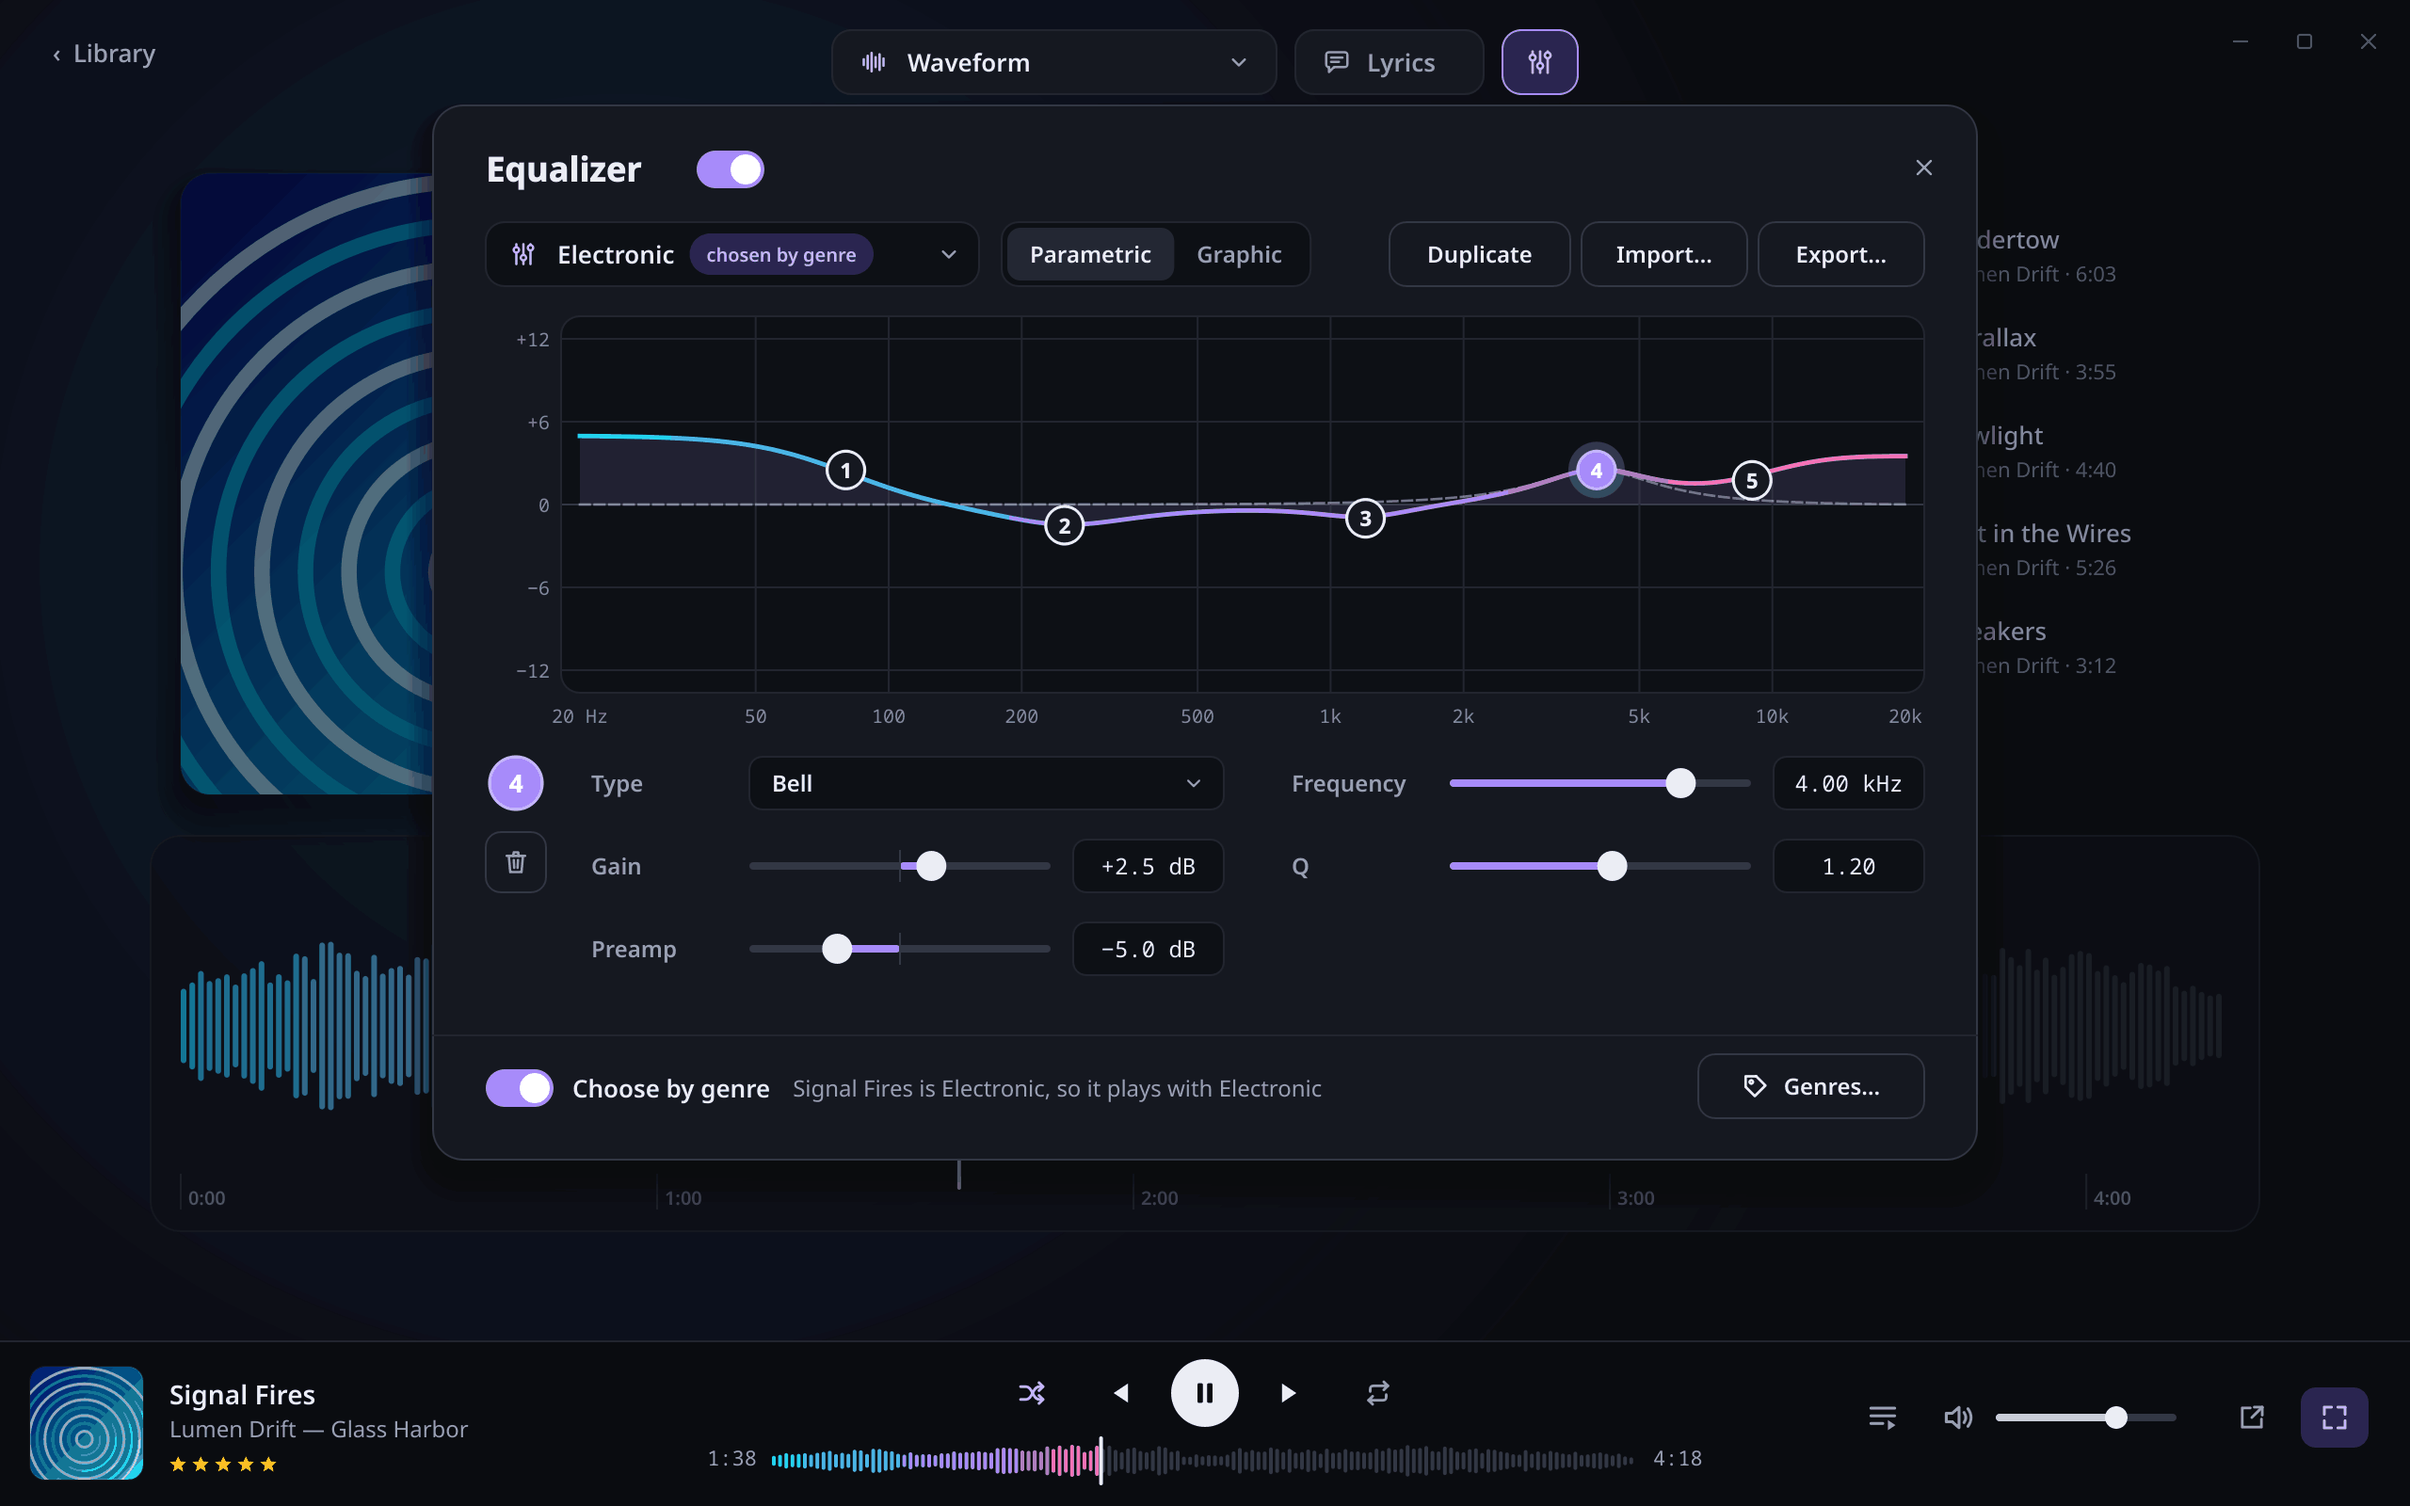
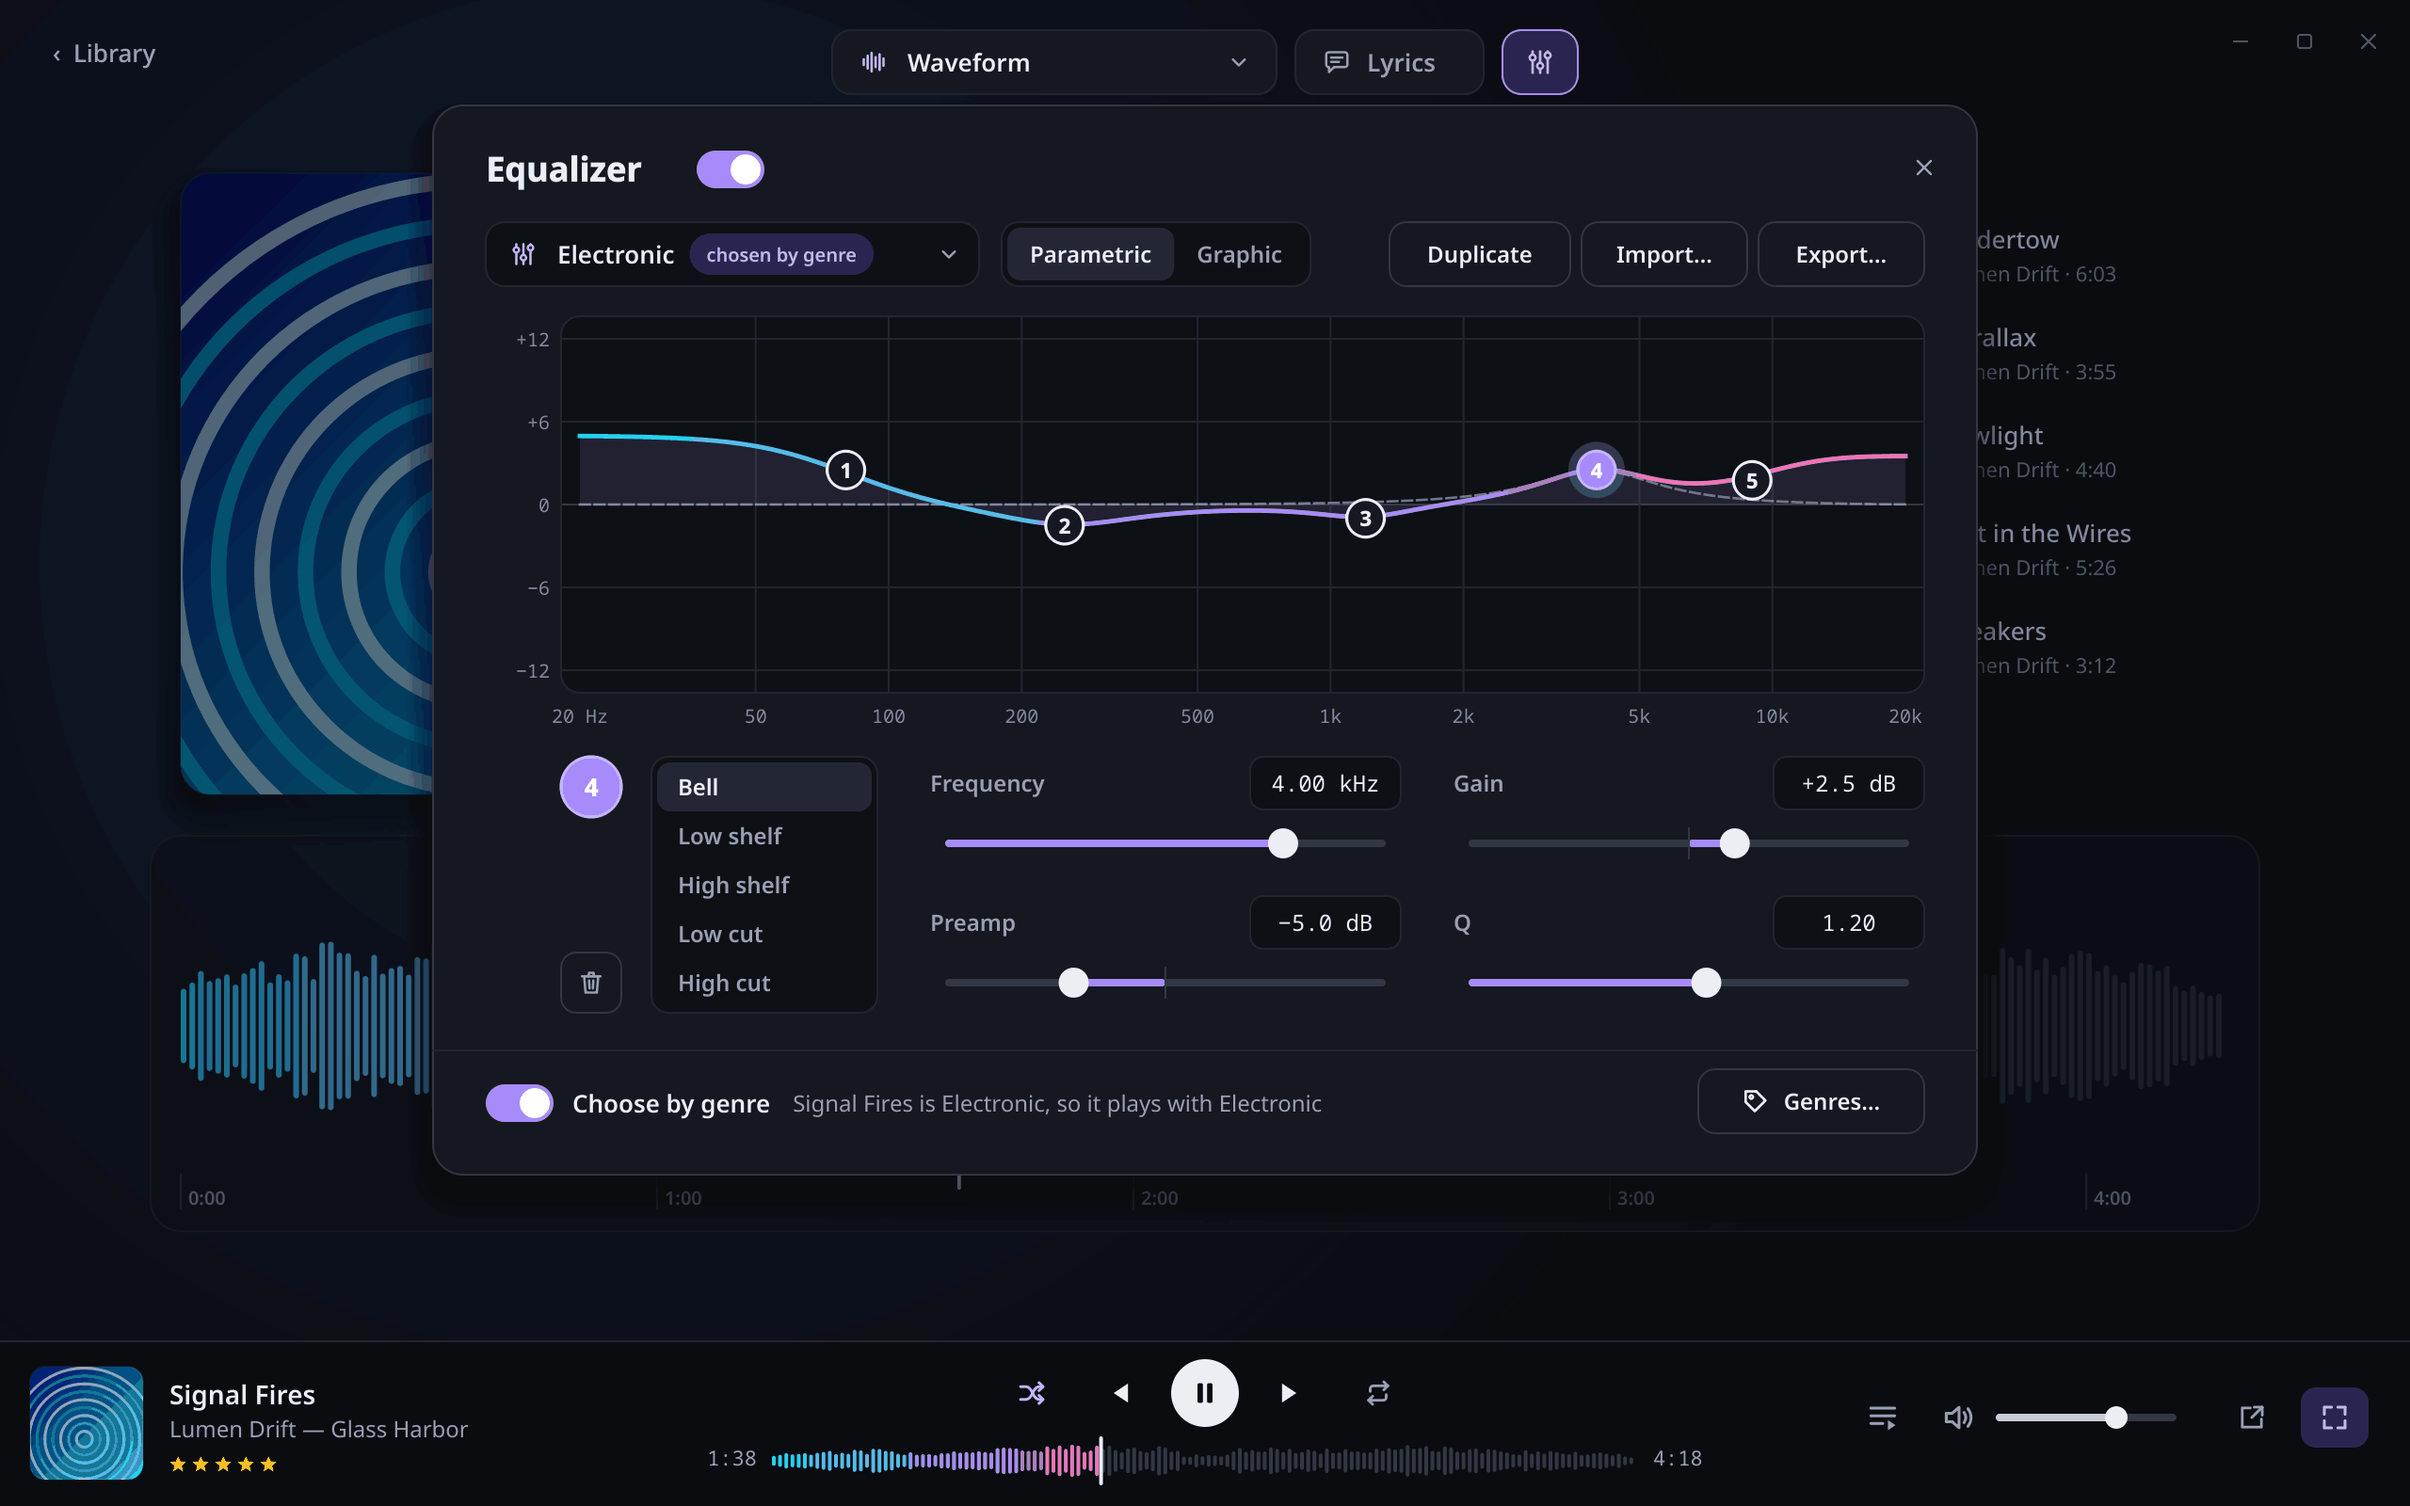
Equalizer: the band editor in four columns
The parametric panel's band editor (R19.2, N05), from the graph's left
edge: the band's handle with Delete at the row's foot; its type as a
vertical segmented control, without a label; frequency and preamp
sliders; gain and Q sliders.

diff --git a/docs/mockups/src/render.py b/docs/mockups/src/render.py
@@ -2255,7 +2255,7 @@ def eq_panel(p, pw, ph, preset, note, note_fg, kind, actions):
 
 
 def n05_equalizer(p):
-    pw, ph = 820, 560
+    pw, ph = 820, 568
     px, py, ix, fy = eq_panel(p, pw, ph, "Electronic", "chosen by genre", "accentHi", 0,
                               [("Duplicate", 96), ("Import…", 88), ("Export…", 88)])
     text(p, ix + 46 + tw("Choose by genre", 13, 600) + 12, fy, "Signal Fires is Electronic, so it plays with Electronic",
@@ -2300,37 +2300,39 @@ def n05_equalizer(p):
             rect(p, hx - 15, hy - 15, 30, 30, 15, col("accent", 0.25))
         rect(p, hx - 10, hy - 10, 20, 20, 10, "accent" if on else "surface", "accentHi" if on else "text", 1.6)
         text(p, hx - 10, hy - 10, str(i + 1), 11, "#ffffff" if on else "text", 700, w=20, h=20, align="center")
-    # the selected band: its handle with Delete under it, then its type and sliders, and the preamp (R19.2)
+    # the selected band, in four columns (R19.2): its handle and Delete; its type; frequency and preamp; gain and Q
     y0 = gy + gh + 34
-    rect(p, ix + 2, y0, 28, 28, 14, "accent", "accentHi", 1.6)
-    text(p, ix + 2, y0, "4", 13, "#ffffff", 700, w=28, h=28, align="center")
-    rect(p, ix, y0 + 40, 32, 32, 8, "surface", "borderStrong")
-    icon(p, "trash", ix + 16, y0 + 56, 15, "muted")
-    gx0 = ix + 56
-    cw = (px + pw - 28 - gx0 - 36) / 2
-    def cell(c, r):
-        return gx0 + c * (cw + 36), y0 + r * 44
-    def hslider(c, r, label, frac, zero, value):
-        x, y = cell(c, r)
-        text(p, x, y, label, 12, "muted", 600, w=78, h=28)
-        tx0, tx1 = x + 84, x + cw - 92
-        rect(p, tx0, y + 12, tx1 - tx0, 4, 2, "borderStrong")
-        a, b = sorted((tx0 + zero * (tx1 - tx0), tx0 + frac * (tx1 - tx0)))
-        rect(p, a, y + 12, max(2, b - a), 4, 2, "accent")
-        if 0 < zero < 1:
-            line(p, tx0 + zero * (tx1 - tx0), y + 6, tx0 + zero * (tx1 - tx0), y + 22, "borderStrong")
-        rect(p, tx0 + frac * (tx1 - tx0) - 8, y + 6, 16, 16, 8, "text")
+    sh = 5 * 26 + 6
+    rect(p, gx, y0, 32, 32, 16, "accent", "accentHi", 1.6)
+    text(p, gx, y0, "4", 13, "#ffffff", 700, w=32, h=32, align="center")
+    rect(p, gx, y0 + sh - 32, 32, 32, 8, "surface", "borderStrong")
+    icon(p, "trash", gx + 16, y0 + sh - 16, 15, "muted")
+    sx, sw_ = gx + 48, 120
+    rect(p, sx, y0, sw_, sh, 9, "input", "border")
+    for i, o in enumerate(("Bell", "Low shelf", "High shelf", "Low cut", "High cut")):
+        oy = y0 + 3 + i * 26
+        if i == 0:
+            rect(p, sx + 3, oy, sw_ - 6, 26, 7, "hover")
+        text(p, sx + 14, oy, o, 12, "text" if i == 0 else "muted", 600, h=26)
+    c3 = sx + sw_ + 28
+    cw = (px + pw - 28 - c3 - 28) / 2
+    def hslider(x, y, label, frac, zero, value):
+        text(p, x, y, label, 12, "muted", 600, h=28)
         rect(p, x + cw - 80, y, 80, 28, 7, "input", "border")
         text(p, x + cw - 80, y, value, 12, "text", w=80, h=28, align="center", mono=True)
-    x, y = cell(0, 0)
-    text(p, x, y, "Type", 12, "muted", 600, w=78, h=28)
-    rect(p, x + 84, y, cw - 84, 28, 7, "input", "border")
-    text(p, x + 96, y, "Bell", 12.5, "text", 600, h=28)
-    icon(p, "chev_down", x + cw - 16, y + 14, 13, "muted")
-    hslider(1, 0, "Frequency", math.log10(4000 / 20) / 3, 0, "4.00 kHz")
-    hslider(0, 1, "Gain", (2.5 + 12) / 24, 0.5, "+2.5 dB")
-    hslider(1, 1, "Q", math.log10(1.2 / 0.1) / 2, 0, "1.20")
-    hslider(0, 2, "Preamp", (12 - 5) / 24, 0.5, "−5.0 dB")
+        tx0, tx1 = x + 8, x + cw - 8
+        ty = y + 46
+        rect(p, tx0, ty - 2, tx1 - tx0, 4, 2, "borderStrong")
+        a, b = sorted((tx0 + zero * (tx1 - tx0), tx0 + frac * (tx1 - tx0)))
+        rect(p, a, ty - 2, max(2, b - a), 4, 2, "accent")
+        if 0 < zero < 1:
+            line(p, tx0 + zero * (tx1 - tx0), ty - 8, tx0 + zero * (tx1 - tx0), ty + 8, "borderStrong")
+        rect(p, tx0 + frac * (tx1 - tx0) - 8, ty - 8, 16, 16, 8, "text")
+    hslider(c3, y0, "Frequency", math.log10(4000 / 20) / 3, 0, "4.00 kHz")
+    hslider(c3, y0 + 74, "Preamp", (12 - 5) / 24, 0.5, "−5.0 dB")
+    c4 = c3 + cw + 28
+    hslider(c4, y0, "Gain", (2.5 + 12) / 24, 0.5, "+2.5 dB")
+    hslider(c4, y0 + 74, "Q", math.log10(1.2 / 0.1) / 2, 0, "1.20")
 
 
 def n06_equalizer_graphic(p):

diff --git a/docs/mockups/README.md b/docs/mockups/README.md
@@ -39,7 +39,7 @@ They are kept in step with the requirements ([process](../process/README.md#mock
 | `N02-now-playing-3d-analyzer` | Now Playing with **3D analyzer** (R11.3, R11.4.2): spectrum slices receding from now (cyan, front) to 3 seconds ago (violet, back), 32 Hz to 16 kHz along the front, the song card, bands and speed; the visualization picker open (R11.4.5): Waveform, 3D analyzer (checked), No visualization |
 | `N03-now-playing-queue` | Now Playing with **No visualization** (R11.4.3), opened by the **Now Playing** button at the right end of the now-playing bar (R6.5), shown highlighted, the pop-out button for the mini player (R15.1) beside it; it covers the sidebar and header: the cover with translucent spectrum bars over its lower part and the thin green progress line at its foot, the song's details under it; the queue at full size: played (dimmed), now playing, "Next · added by you", "Next from Glass Harbor", a row under the pointer with its drag handle and ×, **Save as playlist…** and **Clear** |
 | `N04-now-playing-lyrics` | Now Playing with **No visualization** and the **Lyrics** switch on (R17.3): timed lyrics from `04 - Signal Fires.lrc` in place of the queue, the lines sung dimmed, the current line large, the next ones lighter, a line under the pointer showing the time it seeks to; **Find online…** and **Edit…**. The lyrics are made up |
-| `N05-equalizer` | The Equalizer panel over Now Playing (R19), opened by the Equalizer button beside **Lyrics** (R11.4), with a parametric preset (R19.2): on; the built-in **Electronic**, "chosen by genre", so **Duplicate**, **Import…** and **Export…**; **Parametric** chosen; the response from 20 Hz to 20 kHz with five numbered handles (a low shelf, three bells, a high shelf), band 4 selected with its own shape dashed; under the graph, band 4's handle with its delete button under it, and in two columns of three rows its type (a drop-down: there are five), sliders for frequency, gain and Q with their values, and the preamp's slider; **Choose by genre** on, saying why this song plays with Electronic; **Genres…** |
+| `N05-equalizer` | The Equalizer panel over Now Playing (R19), opened by the Equalizer button beside **Lyrics** (R11.4), with a parametric preset (R19.2): on; the built-in **Electronic**, "chosen by genre", so **Duplicate**, **Import…** and **Export…**; **Parametric** chosen; the response from 20 Hz to 20 kHz with five numbered handles (a low shelf, three bells, a high shelf), band 4 selected with its own shape dashed; under the graph, in four columns, band 4's handle with its delete button at the row's foot, its type as a vertical segmented control (Bell chosen), the frequency and preamp sliders, and the gain and Q sliders, each with its value; **Choose by genre** on, saying why this song plays with Electronic; **Genres…** |
 | `N06-equalizer-graphic` | The same panel with a graphic preset (R19.2): the custom **Car**, picked by hand "for this song" while **Choose by genre** is on (R19.4), so **Update**, **Rename…** and **Delete**; **Graphic** chosen; the preamp and ten sliders with their values and the curve across them |
 | `S01-settings-tags` | Settings › Tags (R13.3): ID3 version, ratings in files, rating scale, history of tag changes, genre list, modification times; the groups down the left, Online (R13.10) and Lyrics (R13.11) among them |
 | `M01-mini-players` | The mini player's seven layouts (R15.3) on the desktop, each a window of its own: **1 Strip** with a ten-bar spectrum and a gradient progress line; **2 Cover** under the pointer, with its controls over the art, the translucent spectrum and the green progress line; **3 Card** with track, rating, waveform seek bar, full controls and up next; **4 Analyzer**, a small 3D analyzer with the song and controls over it; **5 Disc**, the cover as a disc in a green progress ring with the spectrum as rays; **6 Details**, the Card without the cover or up next; **7 Remote**, the Strip's right half |

diff --git a/docs/requirements/R19-equalizer.md b/docs/requirements/R19-equalizer.md
@@ -28,11 +28,12 @@ stays open while the music plays: the on/off switch; the preset picker, the pres
 - **Parametric** (`N05-equalizer`): a graph of the response from 20 Hz to 20 kHz, with a numbered
   handle per band. Dragging a handle sets its frequency and gain; the scroll wheel over it sets
   its Q. Double-clicking a handle sets its gain to 0 dB; double-clicking the graph where there is
-  no handle adds a bell there; **Delete** removes the selected band. Under the graph are the
-  selected band's handle, with a delete button under it, and beside them, in two columns of three
-  rows: its type, a drop-down as there are five (four or fewer would be a segmented control);
-  sliders for its frequency, gain and Q; and the preamp's slider. Each slider's value is shown
-  beside it and can be typed into. The panel shows no instructions for the mouse.
+  no handle adds a bell there; **Delete** removes the selected band. Under the graph, in four
+  columns from the graph's left edge: the selected band's handle, with a delete button at the
+  foot of the row; its type, as a vertical segmented control (Bell, Low shelf, High shelf, Low cut,
+  High cut); sliders for its frequency and for the preamp; and sliders for its gain and Q. Each
+  slider's value is shown above its right end and can be typed into. The panel shows no
+  instructions for the mouse.
 - **Graphic** (`N06-equalizer-graphic`): the preamp and a slider per band with its value, and the
   curve they make drawn across them. Double-clicking a slider sets it back to 0 dB.
 
